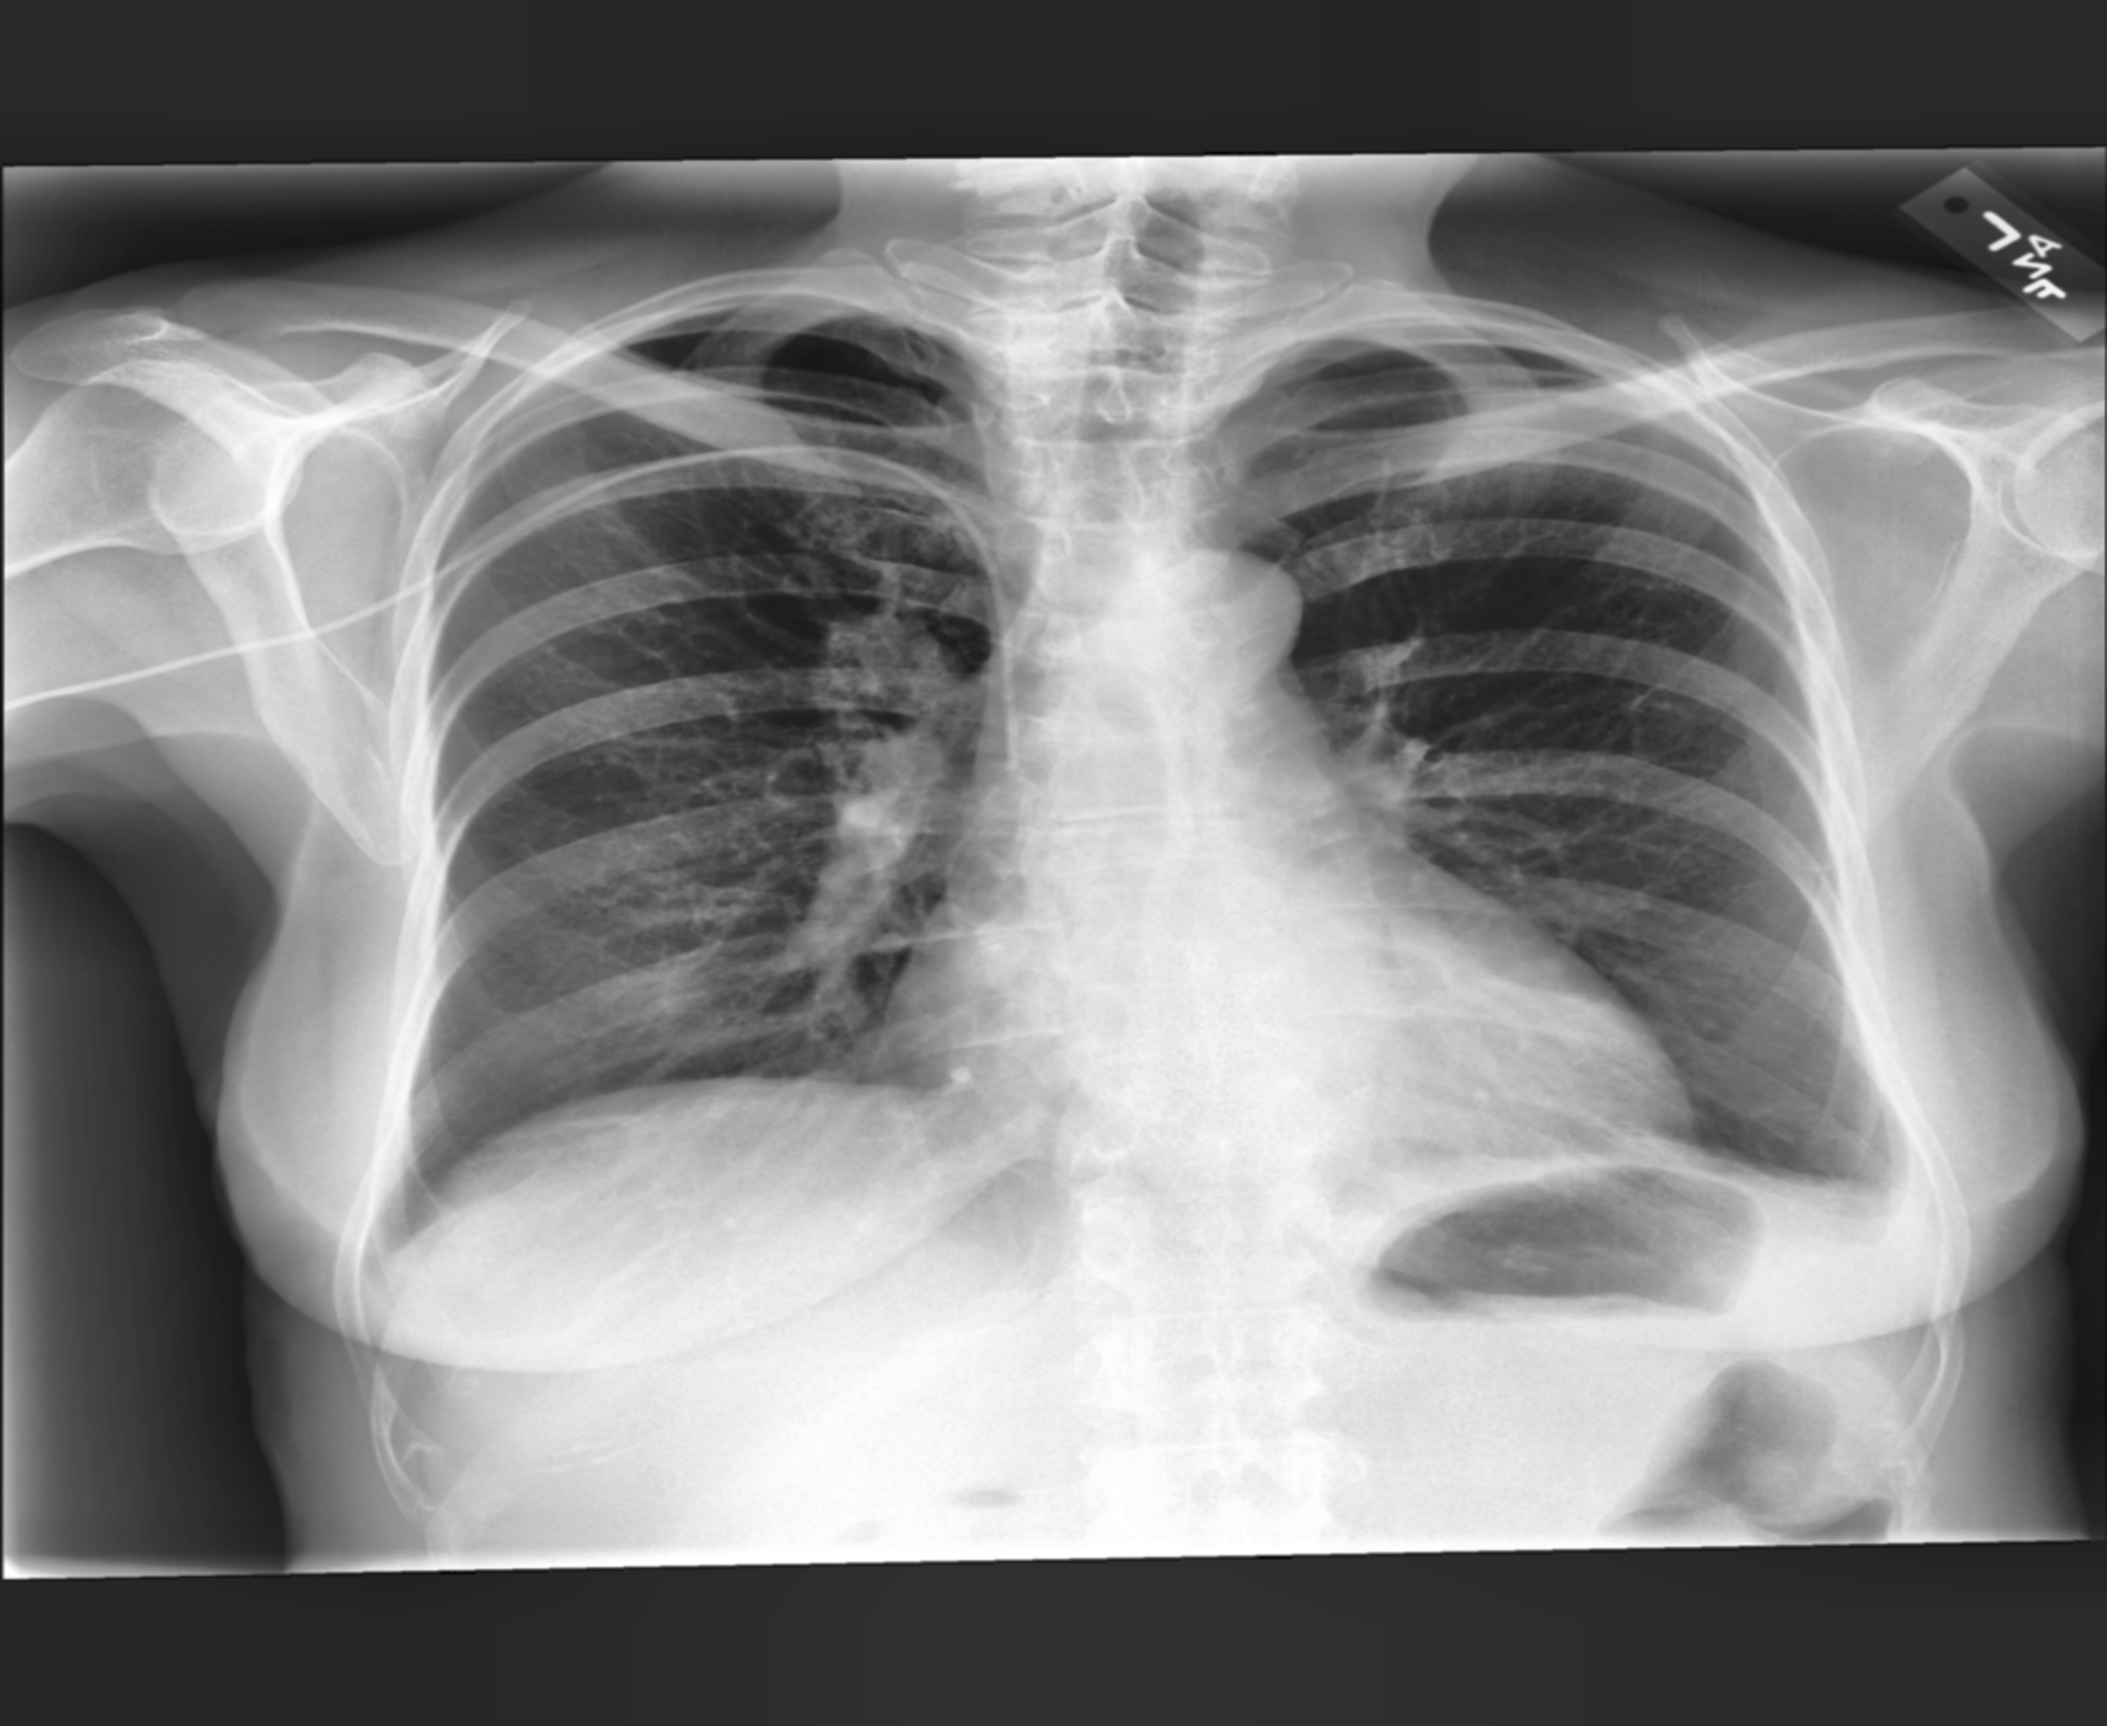
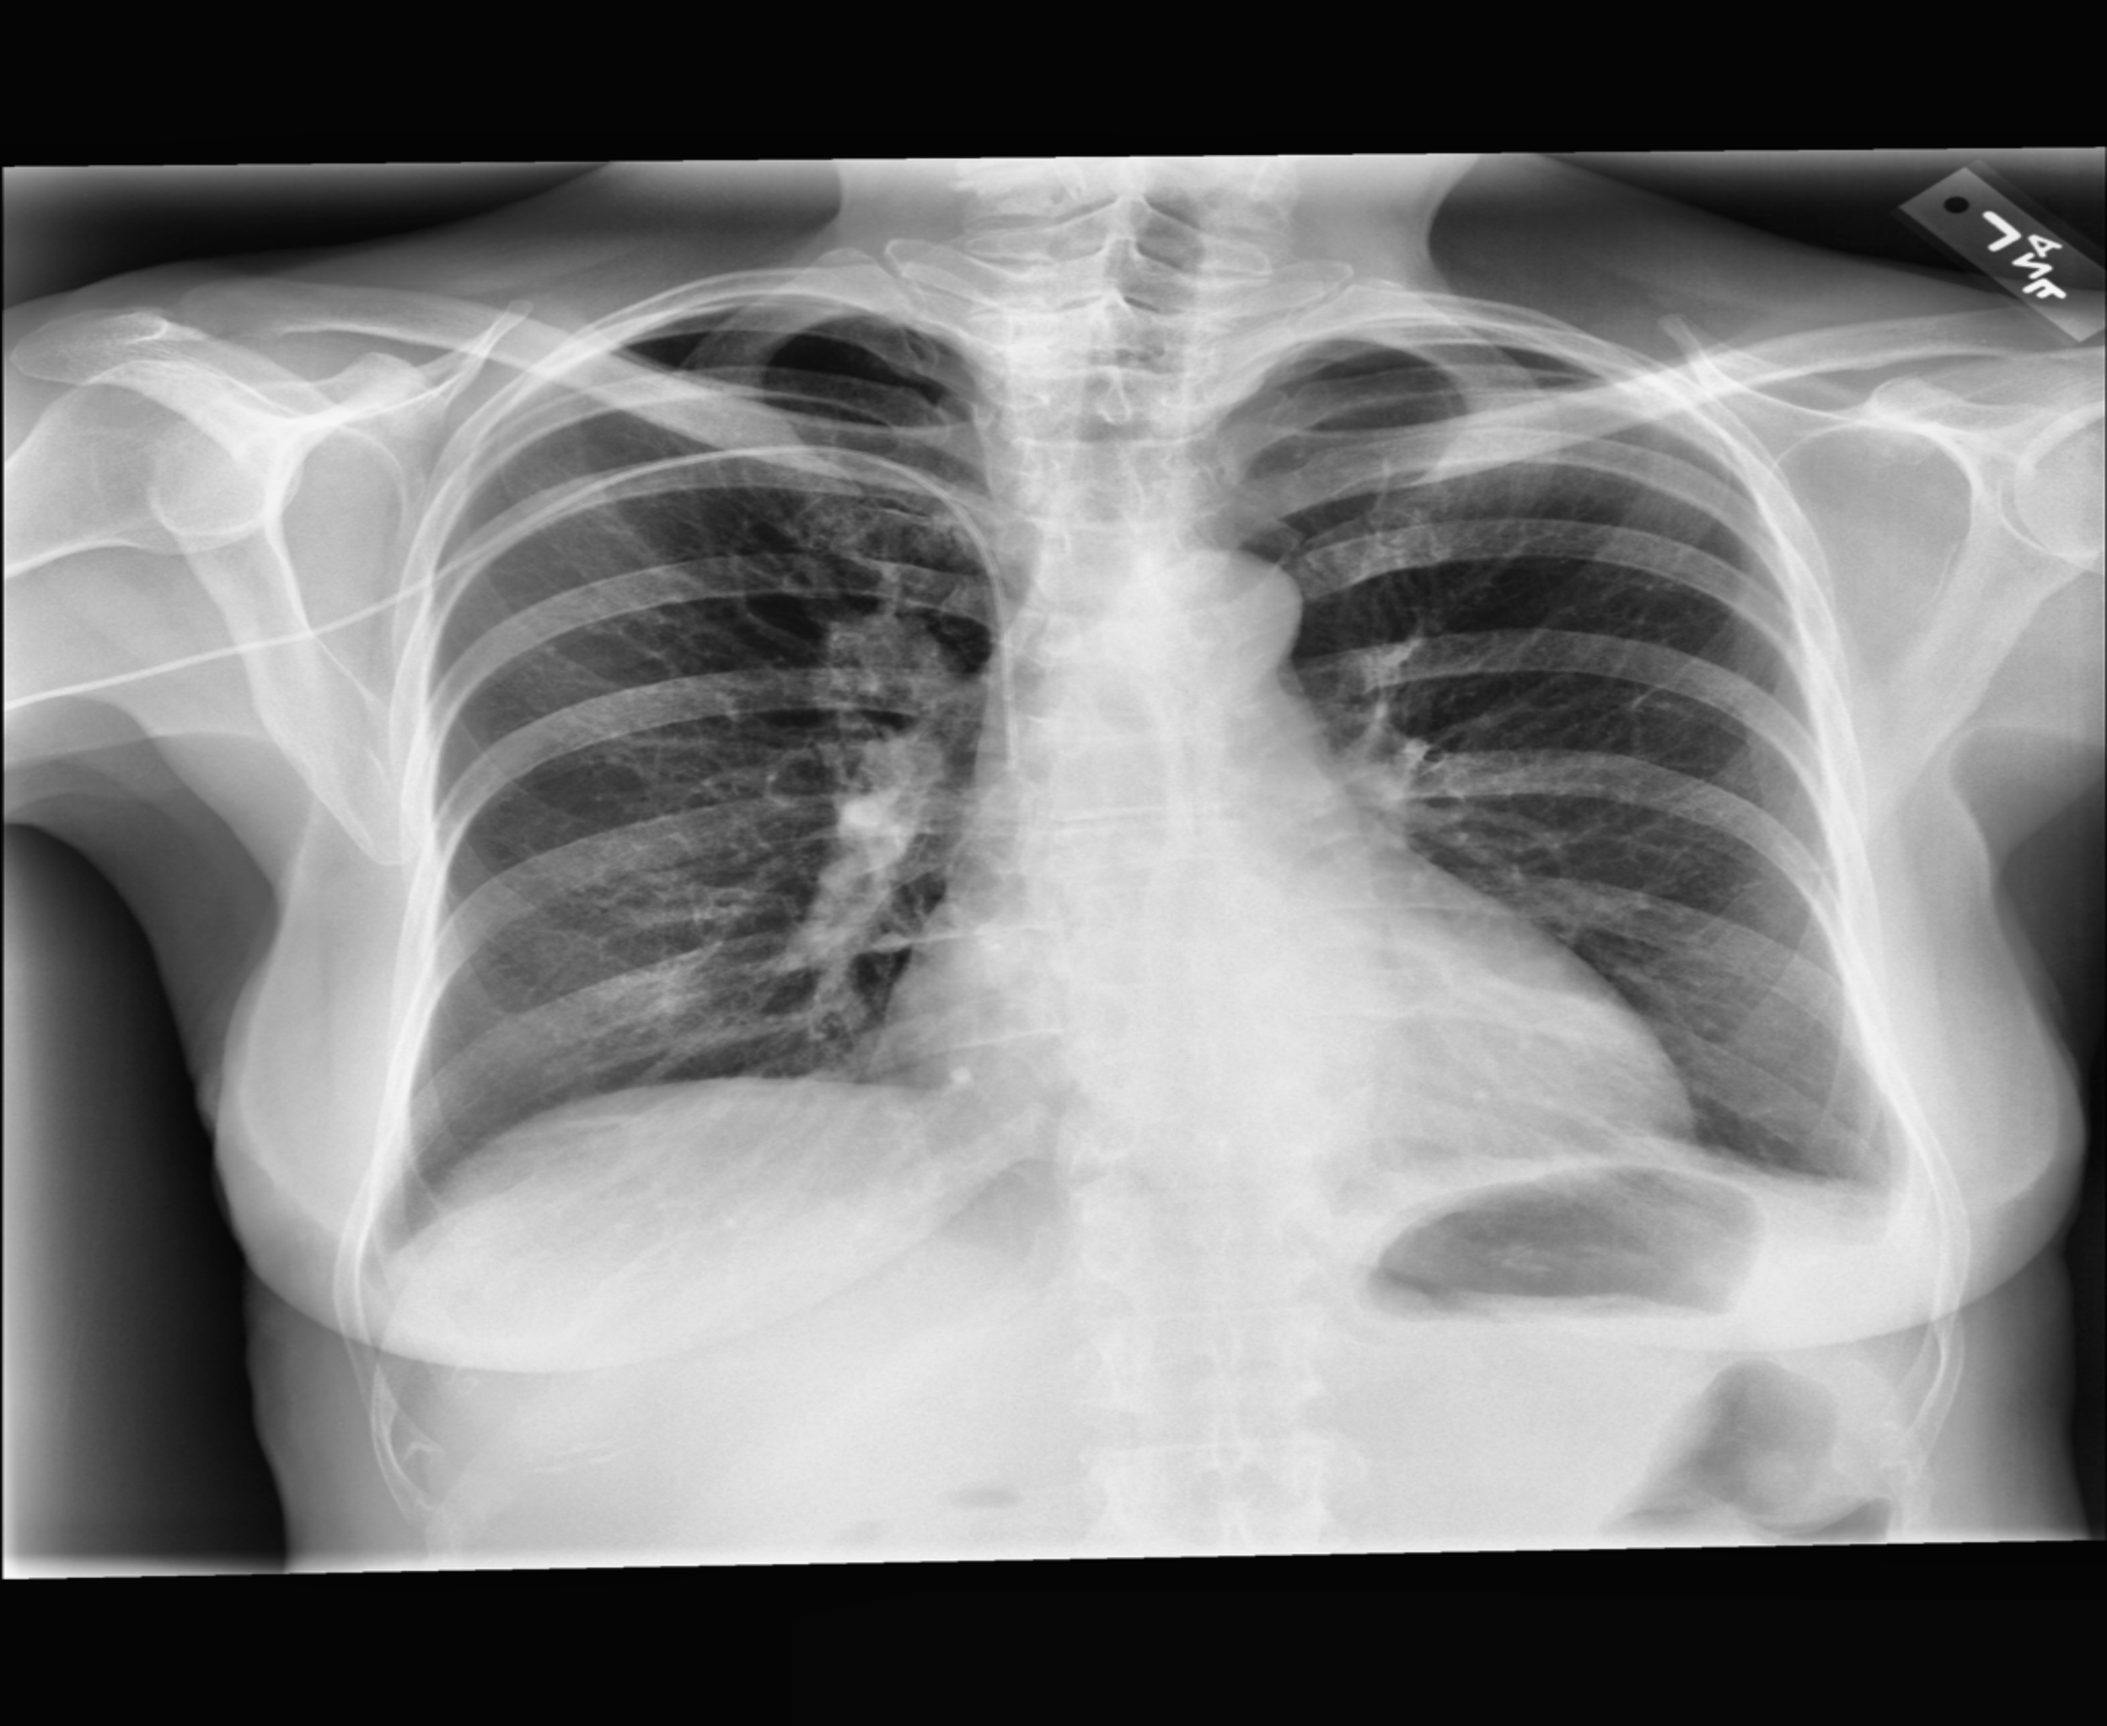
fixed missunderstanding of hsv

diff --git a/Preprocessing/preprocessing.py b/Preprocessing/preprocessing.py
@@ -268,32 +268,30 @@ def preprocess_xray(image_path, output_size=(2500, 2048), show_process=False):
     # Load the image
     image = cv2.imread(image_path, cv2.IMREAD_GRAYSCALE)
     workbench.append(image)
-    
+
     if image is None:
         raise ValueError(f"Could not load image from {image_path}")
-    
-    # Resize image to target size
+
+    # Convert to HSV (load as color first)
+    color_image = cv2.imread(image_path, cv2.IMREAD_COLOR)
+    hsv_image = cv2.cvtColor(color_image, cv2.COLOR_BGR2HSV)
+    workbench.append(hsv_image)
+
+    # Apply CLAHE to V channel
+    h, s, v = cv2.split(hsv_image)
+    clahe = cv2.createCLAHE(clipLimit=2.0, tileGridSize=(8, 8))
+    v_clahe = clahe.apply(v)
+    hsv_clahe = cv2.merge([h, s, v_clahe])
+    workbench.append(hsv_clahe)
+
+    # Convert back to grayscale for consistency
+    gray_clahe = cv2.cvtColor(hsv_clahe, cv2.COLOR_HSV2BGR)
+    gray_clahe = cv2.cvtColor(gray_clahe, cv2.COLOR_BGR2GRAY)
+    workbench.append(gray_clahe)
+
+    # Resize to target size
     resized = cv2.resize(workbench[-1], output_size)
     workbench.append(resized)
-
-    # apply hsv adjustment
-    hsv_adjusted = cv2.equalizeHist(workbench[-1])
-    workbench.append(hsv_adjusted)
-
-    # Apply CLAHE for contrast enhancement
-    clahe = cv2.createCLAHE(clipLimit=2.0, tileGridSize=(8, 8))
-    enhanced = clahe.apply(workbench[-1])
-    workbench.append(enhanced)
-
-    # Apply Gaussian blur to reduce noise
-    blurred = cv2.GaussianBlur(workbench[-1], (5, 5), 0)
-    workbench.append(blurred)
-    
-    # find feature with sift and draw keypoints
-    #sift = cv2.SIFT_create()
-    #keypoints, descriptors = sift.detectAndCompute(workbench[-1], None)
-    #keypoint_image = cv2.drawKeypoints(workbench[-1], keypoints, None, flags=cv2.DRAW_MATCHES_FLAGS_DRAW_RICH_KEYPOINTS)
-    #workbench.append(keypoint_image)
 
     if show_process:
         # Clear and create pipeline directory

diff --git a/challenges.md b/challenges.md
@@ -1,0 +1,25 @@
+# Challenges and Solutions
+
+## Preprocessing Pipeline Simplification
+
+### What the New `preprocess_xray` Does
+
+The new `preprocess_xray` function implements a simplified, standard preprocessing pipeline for X-ray images with three core steps:
+
+1. **HSV Color Space Conversion** - Converts the image from BGR color space to HSV (Hue, Saturation, Value). This separates the brightness information (V channel) from color information, allowing us to enhance contrast without affecting color properties.
+
+2. **CLAHE on V Channel** - Applies CLAHE (Contrast Limited Adaptive Histogram Equalization) specifically to the Value (brightness) channel. This is a smarter version of histogram equalization that works on small regions (8x8 tiles) of the image instead of the whole image at once. This prevents over-brightening already bright areas while still enhancing darker regions. The "contrast limited" part (clipLimit=2.0) prevents noise from being amplified too much.
+
+3. **Resizing** - Converts back to grayscale and normalizes all images to a consistent size (2500x2048) for uniform processing
+
+### Why We Changed It
+
+The previous preprocessing pipeline was overly complex with multiple enhancement layers optimized for soft tissue visibility. While this made images easier for human comparison, it actually hindered the KNN's ability to extract meaningful features for classification.
+
+The issue was that aggressive preprocessing can distort the underlying patterns that machine learning algorithms rely on. By switching to this simpler pipeline, we can:
+
+- **Start with a baseline** that performs minimal transformations
+- **Incrementally test** which preprocessing steps actually improve KNN performance
+- **Identify which techniques help vs. hurt** feature extraction
+
+This iterative approach allows us to build an evidence-based pipeline tailored specifically to what the KNN model needs, rather than what looks good to human eyes.
